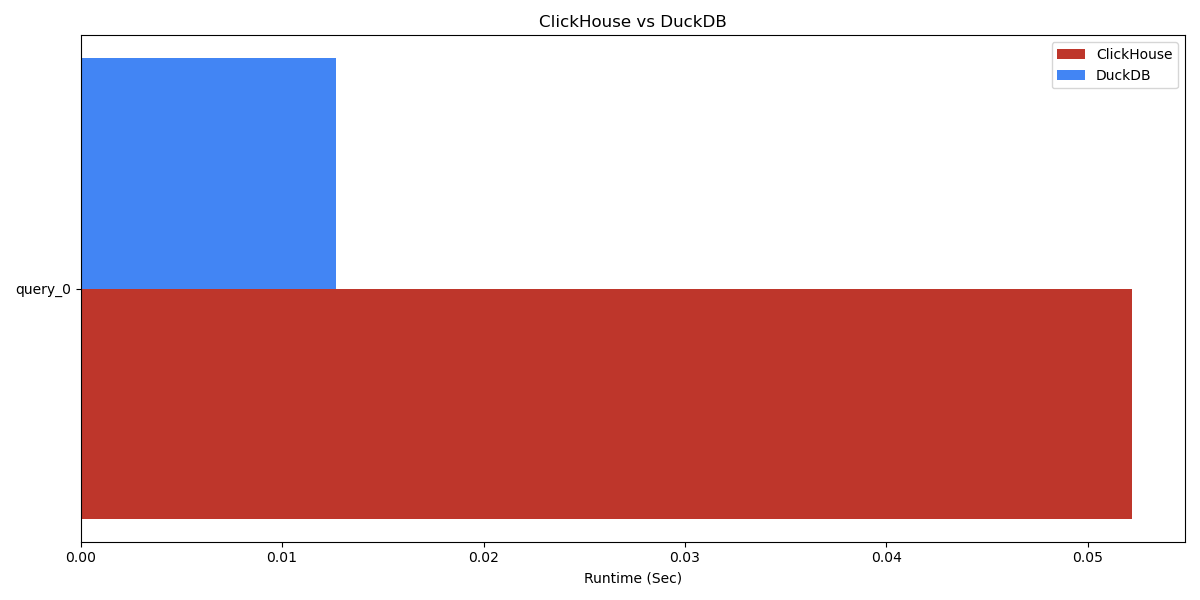
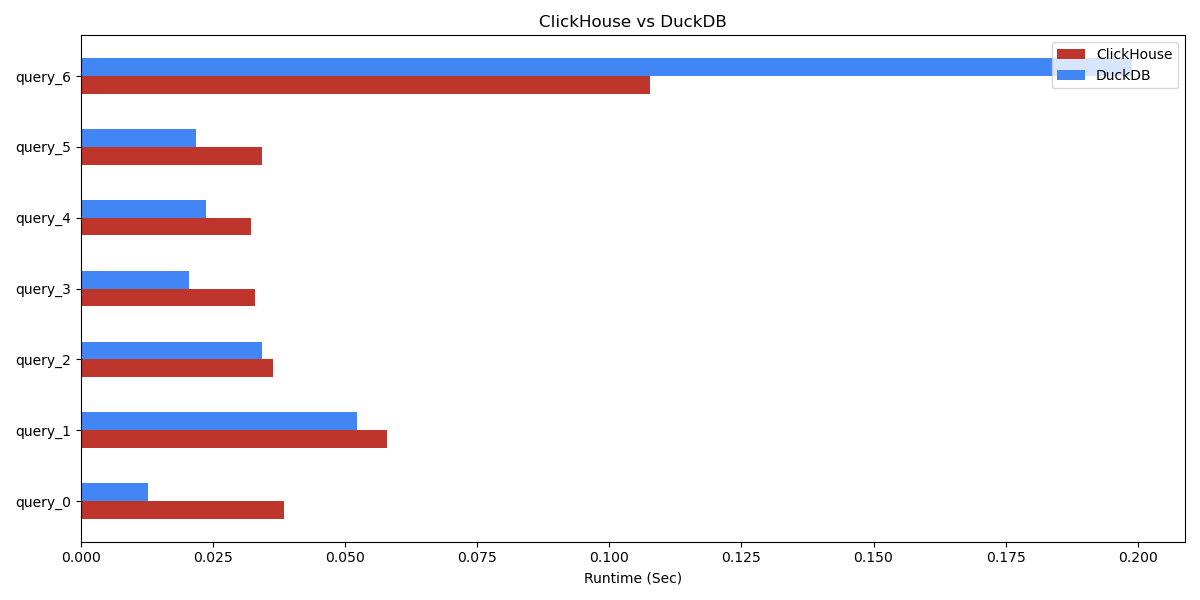
Update performance with nyc taxi dataset

diff --git a/parquet/performance/tests/duckdb/steps_nyc_taxi.py b/parquet/performance/tests/duckdb/steps_nyc_taxi.py
@@ -87,6 +87,90 @@ def query_0(self, filename: str, database: str):
     )
 
 
+@TestStep
+def query_1(self, filename: str, database: str):
+    r = "SELECT pickup_ntaname, count(*) AS count FROM {filename} GROUP BY pickup_ntaname ORDER BY count DESC LIMIT 10;"
+
+    clickhouse_query = r.format(filename=f"file({filename})")
+    duckdb_query = r.format(filename=f"'/data1/{filename}'")
+
+    run_query(
+        clickhouse_query=clickhouse_query,
+        duckdb_query=duckdb_query,
+        name="query_1",
+        database=database,
+    )
+
+
+@TestStep
+def query_2(self, filename: str, database: str):
+    clickhouse_query = f"SELECT passenger_count, avg(total_amount) FROM file('{filename}') GROUP BY passenger_count;"
+    duckdb_query = f"SELECT passenger_count, avg(total_amount) FROM '/data1/{filename}' GROUP BY passenger_count;"
+
+    run_query(
+        clickhouse_query=clickhouse_query,
+        duckdb_query=duckdb_query,
+        name="query_2",
+        database=database,
+    )
+
+
+@TestStep
+def query_3(self, filename: str, database: str):
+    clickhouse_query = f"SELECT AVG(tip_amount) FROM file('{filename}');"
+    duckdb_query = f"SELECT AVG(tip_amount) FROM '/data1/{filename}';"
+
+    run_query(
+        clickhouse_query=clickhouse_query,
+        duckdb_query=duckdb_query,
+        name="query_3",
+        database=database,
+    )
+
+
+@TestStep
+def query_4(self, filename: str, database: str):
+    clickhouse_query = f"SELECT COUNT(DISTINCT payment_type) FROM file('{filename}');"
+    duckdb_query = f"SELECT COUNT(DISTINCT payment_type) FROM '/data1/{filename}';"
+
+    run_query(
+        clickhouse_query=clickhouse_query,
+        duckdb_query=duckdb_query,
+        name="query_4",
+        database=database,
+    )
+
+
+@TestStep
+def query_5(self, filename: str, database: str):
+    clickhouse_query = (
+        f"SELECT MIN(pickup_datetime), MAX(pickup_datetime) FROM file('{filename}');"
+    )
+    duckdb_query = (
+        f"SELECT MIN(pickup_datetime), MAX(pickup_datetime) FROM '/data1/{filename}';"
+    )
+
+    run_query(
+        clickhouse_query=clickhouse_query,
+        duckdb_query=duckdb_query,
+        name="query_5",
+        database=database,
+    )
+
+
+@TestStep
+def query_6(self, filename: str, database: str):
+    clickhouse_query = f"SELECT trip_id, COUNT(*) FROM file('{filename}') GROUP BY trip_id ORDER BY COUNT(*) DESC LIMIT 10;;"
+    duckdb_query = f"SELECT trip_id, COUNT(*) FROM '/data1/{filename}' GROUP BY trip_id ORDER BY COUNT(*) DESC LIMIT 10;;"
+
+    run_query(
+        clickhouse_query=clickhouse_query,
+        duckdb_query=duckdb_query,
+        name="query_6",
+        database=database,
+    )
+
+
 @TestSuite
 def clickhouse(self, filename):
     duckdb_node = self.context.duckdb_node

diff --git a/parquet/performance/tests/duckdb/feature.py b/parquet/performance/tests/duckdb/feature.py
@@ -118,7 +118,7 @@ def compare_clickhouse_vs_duckdb_performance_hits(
 
 @TestSuite
 def nyc_taxi(self, threads, max_memory_usage, compression):
-    """Comparing the time it takes to read the large hits dataset in ClickHouse and duckdb"""
+    """Comparing the time it takes to read from the nyc taxi dataset in ClickHouse and duckdb"""
 
     clickhouse_node = self.context.clickhouse_node
     with Given("I generate a parquet file with large dataset"):
@@ -133,7 +133,7 @@ def nyc_taxi(self, threads, max_memory_usage, compression):
         )
 
     with When(
-        "I run all the queries from the steps file in ClickHouse and DuckDB to read from the Parquet file with large ontime dataset"
+        "I run all the queries from the steps file in ClickHouse and DuckDB to read from the Parquet file with nyc taxi dataset"
     ):
         with By("Running the scenario which contains all the query steps"):
             queries_nyc_taxi(filename=parquet_file)

diff --git a/parquet/performance/results/nyc_taxi/23.7.4.5/README.md b/parquet/performance/results/nyc_taxi/23.7.4.5/README.md
@@ -4,11 +4,71 @@
 ![Bar Chart](bar_chart.png)
 # query_0
 ```sql
- SELECT COUNT(*) FROM file(nyc_taxi_parquet_df78fb21_5d63_11ee_8734_83580fb48b84.parquet);
+ SELECT COUNT(*) FROM file(nyc_taxi_parquet_1014e459_5d8a_11ee_8734_83580fb48b84.parquet);
 ```
 
 ```mermaid
      pie showData
-         "ClickHouse" : 0.0522184371948242
-         "DuckDB" : 0.0126717090606689
+         "ClickHouse" : 0.0384230613708496
+         "DuckDB" : 0.0128185749053955
+```
+# query_1
+```sql
+ SELECT pickup_ntaname, count(*) AS count FROM file(nyc_taxi_parquet_1014e459_5d8a_11ee_8734_83580fb48b84.parquet) GROUP BY pickup_ntaname ORDER BY count DESC LIMIT 10;
+```
+
+```mermaid
+     pie showData
+         "ClickHouse" : 0.0579042434692382
+         "DuckDB" : 0.0521886348724365
+```
+# query_2
+```sql
+ SELECT passenger_count, avg(total_amount) FROM file('nyc_taxi_parquet_1014e459_5d8a_11ee_8734_83580fb48b84.parquet') GROUP BY passenger_count;
+```
+
+```mermaid
+     pie showData
+         "ClickHouse" : 0.0363545417785644
+         "DuckDB" : 0.0342824459075927
+```
+# query_3
+```sql
+ SELECT AVG(tip_amount) FROM file('nyc_taxi_parquet_1014e459_5d8a_11ee_8734_83580fb48b84.parquet');
+```
+
+```mermaid
+     pie showData
+         "ClickHouse" : 0.0329134464263916
+         "DuckDB" : 0.0204555988311767
+```
+# query_4
+```sql
+ SELECT COUNT(DISTINCT payment_type) FROM file('nyc_taxi_parquet_1014e459_5d8a_11ee_8734_83580fb48b84.parquet');
+```
+
+```mermaid
+     pie showData
+         "ClickHouse" : 0.032301902770996
+         "DuckDB" : 0.0236201286315917
+```
+# query_5
+```sql
+ SELECT MIN(pickup_datetime), MAX(pickup_datetime) FROM file('nyc_taxi_parquet_1014e459_5d8a_11ee_8734_83580fb48b84.parquet');
+```
+
+```mermaid
+     pie showData
+         "ClickHouse" : 0.0343353748321533
+         "DuckDB" : 0.0218749046325683
+```
+# query_6
+```sql
+ SELECT trip_id, COUNT(*) FROM file('nyc_taxi_parquet_1014e459_5d8a_11ee_8734_83580fb48b84.parquet') GROUP BY trip_id ORDER BY COUNT(*) DESC LIMIT 10;;
+```
+
+```mermaid
+     pie showData
+         "ClickHouse" : 0.107790470123291
+         "DuckDB" : 0.1989874839782714
 ```
